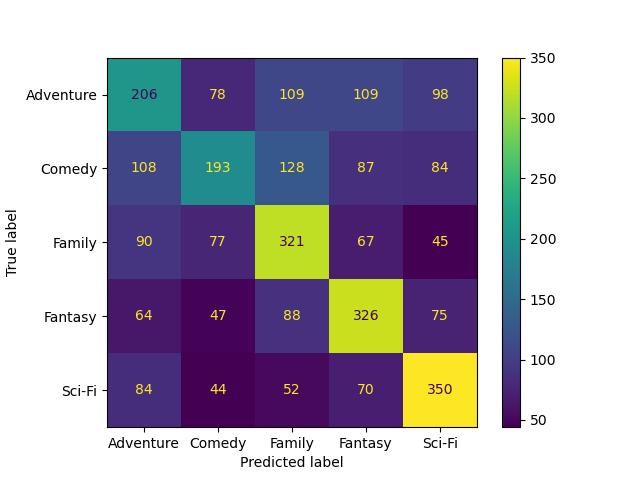
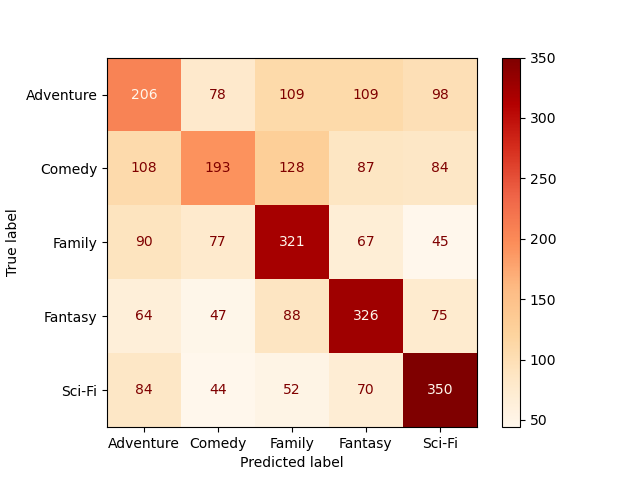
change plot's color

diff --git a/src/algorithms/knn.py b/src/algorithms/knn.py
@@ -32,7 +32,7 @@ def knn_model_cross_val(matrix, classes):
     f_score = f1_score(classes, y_pred, average="macro")
     conf_matrix = confusion_matrix(classes, y_pred)
     disp = ConfusionMatrixDisplay(conf_matrix, display_labels=np.unique(classes))
-    disp.plot()
+    disp.plot(cmap="OrRd")
     plt.show()
     return accuracy, precision, recall, f_score
 
